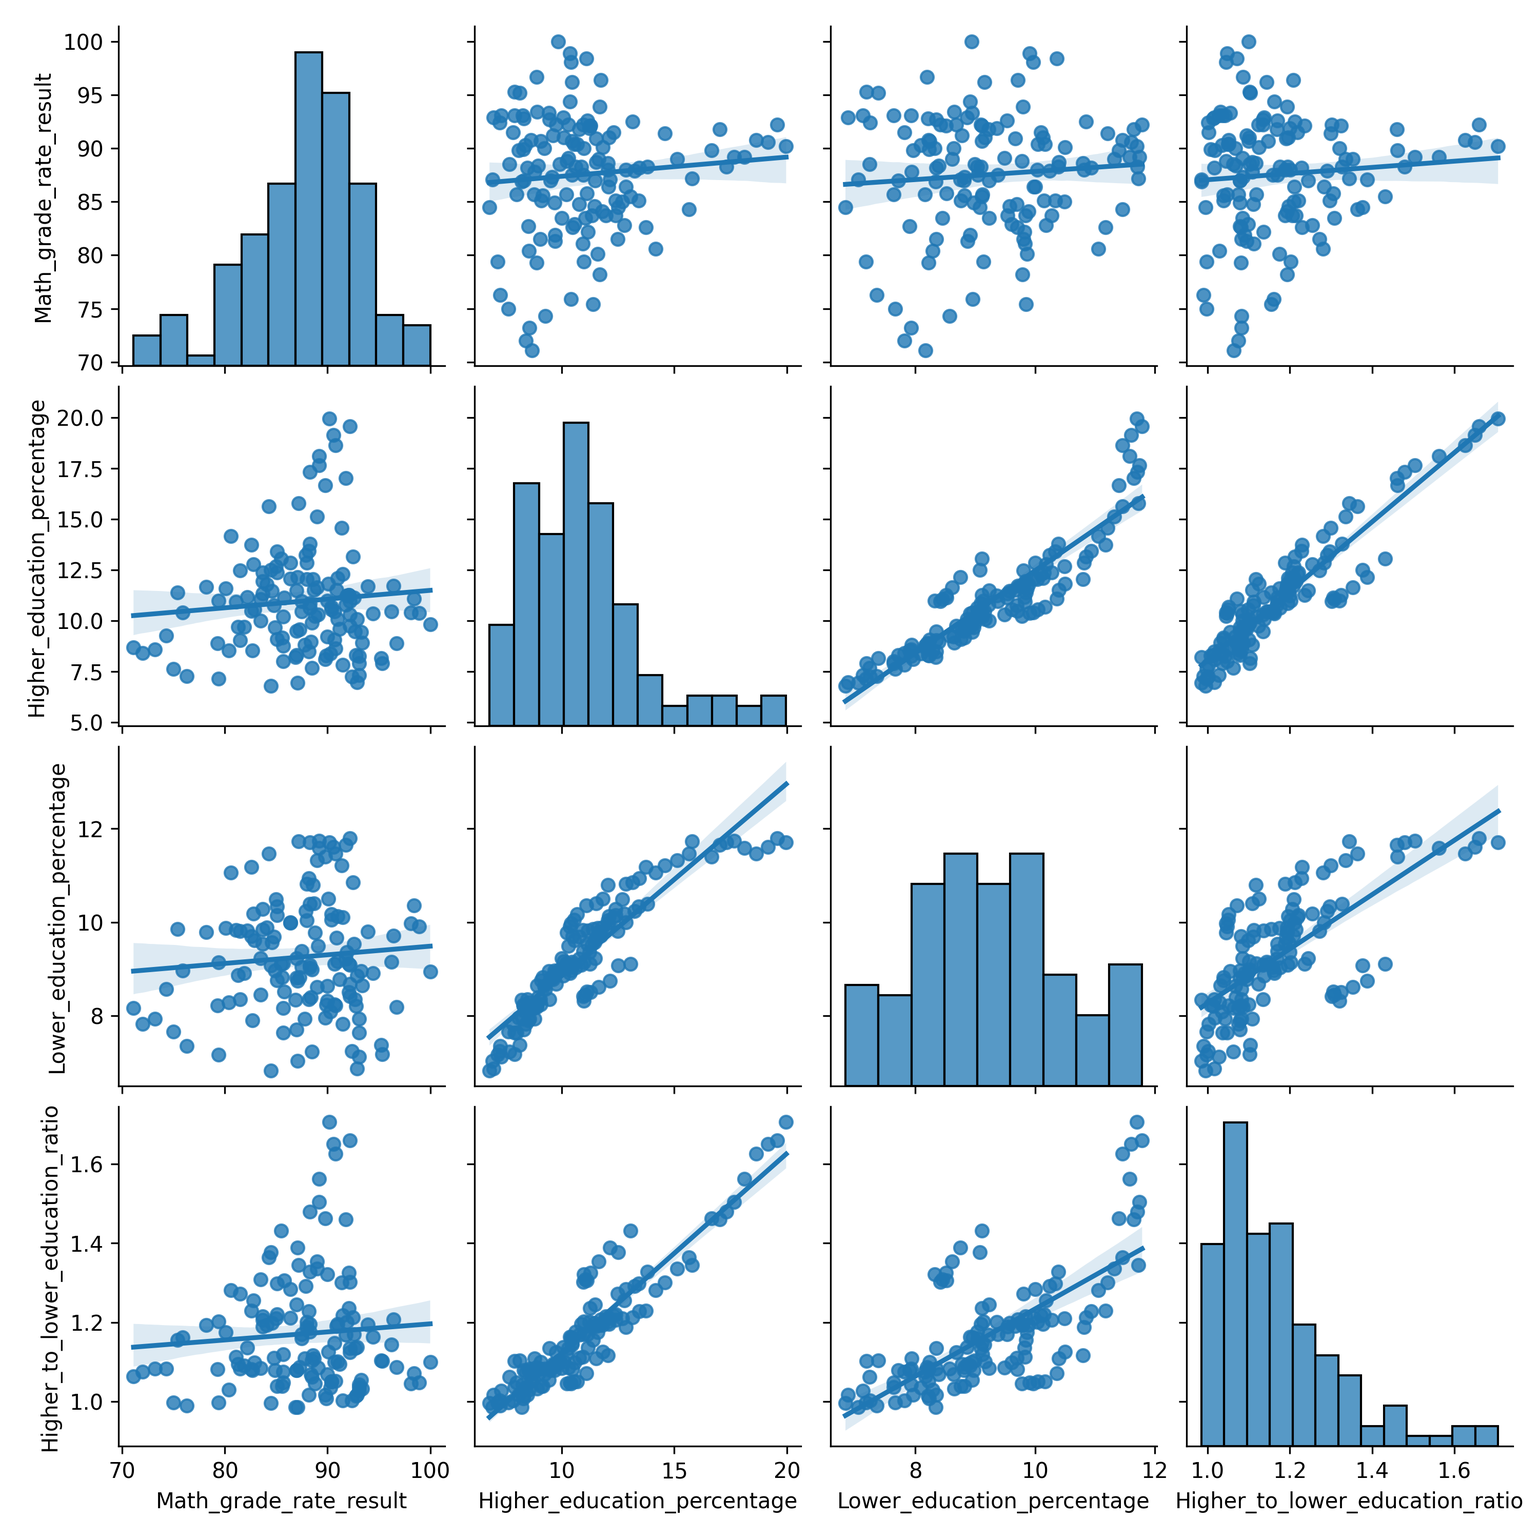
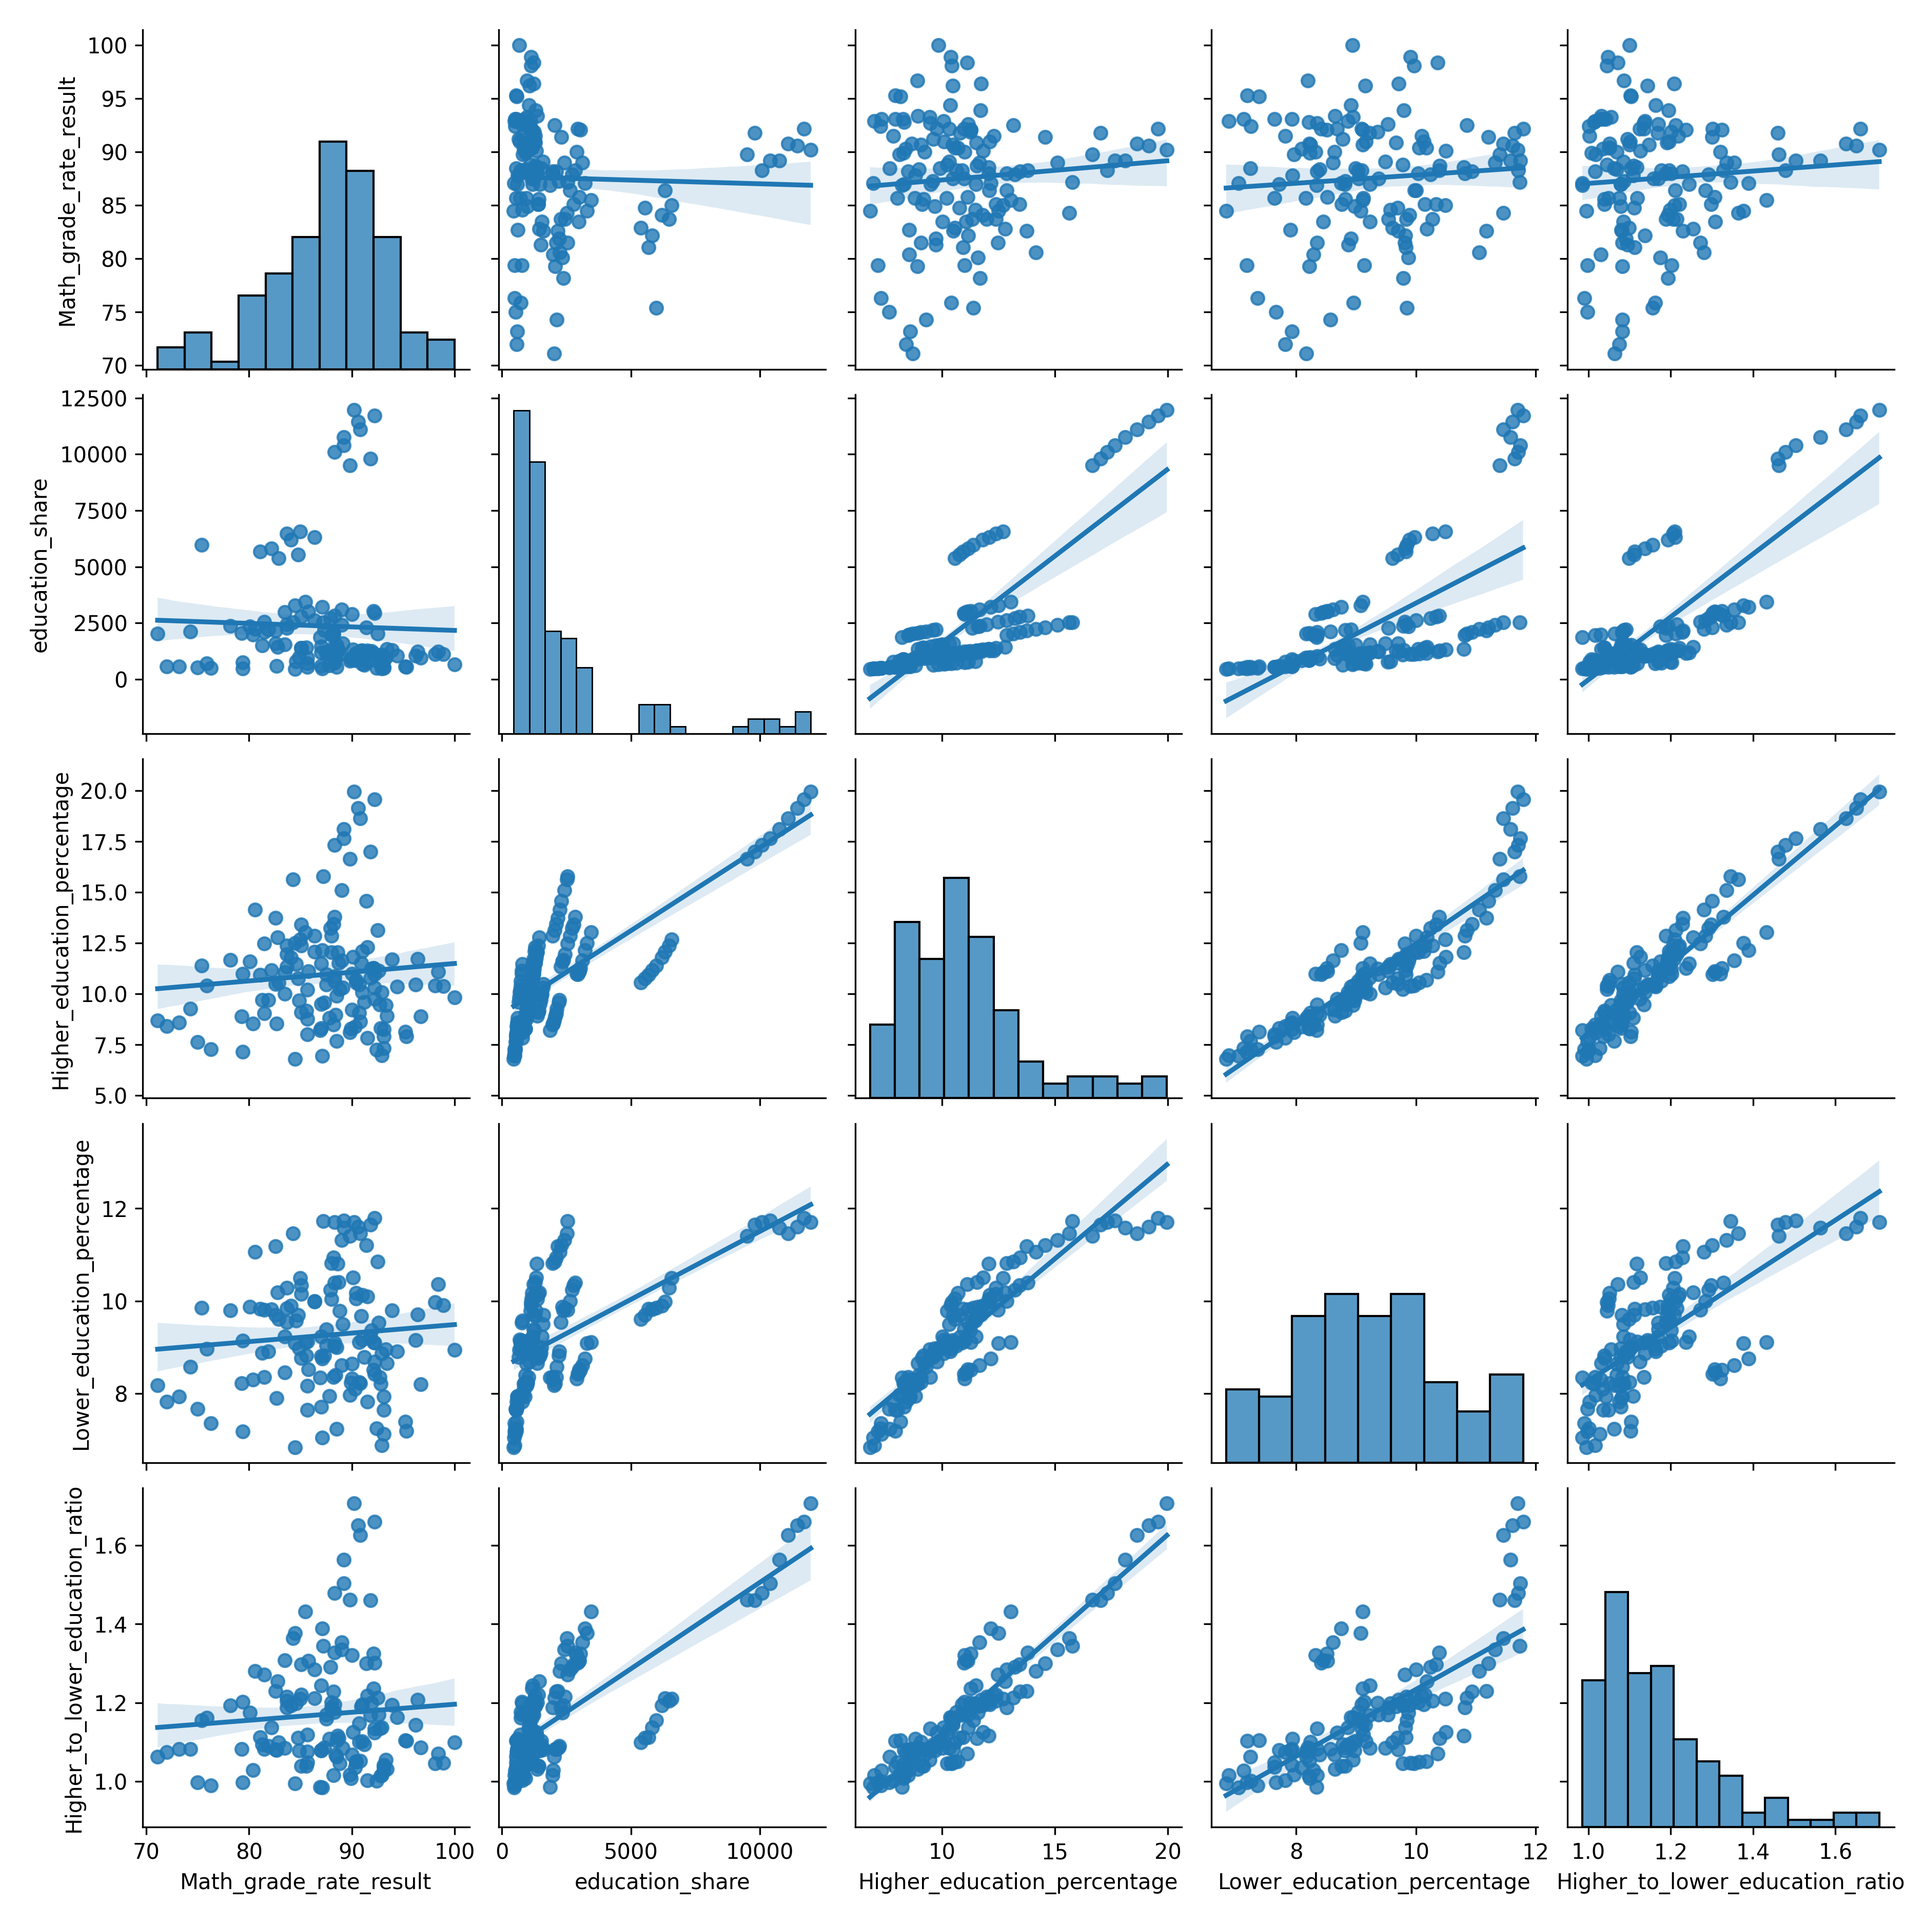
add new model

Changed region(s): [[0.0, 0.0, 0.992, 0.992], [0.527, 0.372, 0.558, 0.403], [0.434, 0.217, 0.465, 0.248]]

diff --git a/main.py b/main.py
@@ -35,21 +35,6 @@ def Merge_data(folder_path,file_name):
     write_df_to_csv(data,folder_path, file_name,encoding='utf-8-sig')
     
     return data
-def check_data_VIF(df):
-    X = df.drop('Math_grade_rate_result', axis=1)
-  
-    X = X.select_dtypes(include=['int64', 'float64', 'bool'])
-    X = sm.add_constant(X)
-
-    print(X.dtypes) 
-    print(X.head())  
-
-    vif_data = pd.DataFrame()
-    vif_data["feature"] = X.columns
-    vif_data["VIF"] = [variance_inflation_factor(X.values, i) for i in range(X.shape[1])]
-
-    print(vif_data)
-
 
 def show_correlation_matrix(df, image_path):
     plt.figure(figsize=(10, 8))
@@ -59,35 +44,39 @@ def show_correlation_matrix(df, image_path):
     plt.tight_layout()
     plt.savefig(image_path, dpi=300)
     plt.close()
-
-def math_grade_rate_plot(df):
-    graph = seaborn.FacetGrid(df, col="Municipality", hue="Municipality", col_wrap=2, height=4, aspect=1.5)
-    graph.map(seaborn.lineplot, "Year", "Math_grade_rate_result", marker="o")
-    plt.savefig("data/math_grade_rate_result.png", dpi=300)
-    plt.close()
-
 def show_correlation_pair_plot(df, image_path):
     seaborn.pairplot(df, kind='reg')
     plt.suptitle("Pairwise Relationships with Regression Diagnostics", y=1.02)
     plt.savefig(image_path, dpi=300)
     plt.close()
     
+def math_grade_rate_plot(df):
+    graph = seaborn.FacetGrid(df, col="Municipality", hue="Municipality", col_wrap=2, height=4, aspect=1.5)
+    graph.map(seaborn.lineplot, "Year", "Math_grade_rate_result", marker="o")
+    plt.savefig("data/math_grade_rate_result.png", dpi=300)
+    plt.close()
     
 def drop_highly_correlated_features(df, threshold=0.7):
-    corr = df.corr().round(2).abs()
-    dropped = set()
-    for i in corr.columns:
-        for j in corr.columns:
-            if(len(dropped)>len(corr.columns)-3):
-                break
-            if i!="Math_grade_rate_result" and j!="Math_grade_rate_result" and  i != j and corr.loc[i, j] > threshold:
-                dropped.add(j)
-    return df.drop(columns=dropped), list(dropped)
+    corr_matrix = df.corr().abs()
+    to_drop = set()
+    for row_ind in range(len(corr_matrix.columns)):
+        row = corr_matrix.columns[row_ind]
+        for col_ind in range(row_ind + 1, len(corr_matrix.columns)):
+            col = corr_matrix.columns[col_ind]
+            if corr_matrix.loc[row, col] > threshold:
+                if row != "Math_grade_rate_result" and col != "Math_grade_rate_result":
+                    if col not in to_drop:
+                        to_drop.add(col)
+
+    kept = [col for col in df.columns if col not in to_drop]
+    return kept, list(to_drop)
+
+
 
 def features_correlation_checking(df):
     income_vars = ["Math_grade_rate_result", "Average_income", "Income_inequality"]
     pop_vars = ["Math_grade_rate_result","Population_growth_rate", "Population"]
-    edu_vars = ["Math_grade_rate_result", "Higher_education_percentage", "Lower_education_percentage", "Higher_to_lower_education_ratio"]
+    edu_vars = ["Math_grade_rate_result", "education_share","Higher_education_percentage", "Lower_education_percentage", "Higher_to_lower_education_ratio"]
 
     show_correlation_matrix(df[income_vars], "data/correlation_matrix_income.png")
     show_correlation_pair_plot(df[income_vars], "data/correlation_plot_income.png")
@@ -104,13 +93,38 @@ def features_correlation_checking(df):
     selected_features=[col for col in  df.columns if col not in income_dropped and col not in pop_dropped and col not in edu_dropped ]
     return selected_features
 
+def check_data_VIF(df):
+    X = df.dropna()
+    X = df.select_dtypes(include=[np.number]).astype(float)
+
+    if 'Math_grade_rate_result' in X.columns:
+        X = X.drop(columns=['Math_grade_rate_result'])
+
+    X = sm.add_constant(X)
+
+    vif_data = pd.DataFrame()
+    vif_data["feature"] = X.columns
+    vif_data["VIF"] = [variance_inflation_factor(X.values, i) for i in range(X.shape[1])]
+
+    print(vif_data)
+
+    
 def main():
     df=Merge_data('data/','merged_data.csv')
     math_grade_rate_plot(df)
     selected_features=features_correlation_checking(df)
     not_correlated_df=df[selected_features]
-    dummy_df= pd.get_dummies(not_correlated_df, columns=['Municipality','Year'], drop_first=True)
-    #check_data_VIF(dummy_df) 
+    print(selected_features)
+    res=not_correlated_df.describe()
+    print(res)
+    
+    
+    show_correlation_matrix(df[[col for col in df.columns if col not in ['Year', 'Municipality']]], "data/correlation_matrix.png")
+    show_correlation_pair_plot(df, "data/correlation_plot.png")
+    
+    # dummy_df= pd.get_dummies(not_correlated_df, columns=['Municipality','Year'], drop_first=True)
+    # dummy_df = dummy_df.astype(int)
+    # check_data_VIF(dummy_df) 
 
 
 main()

diff --git a/feature_engineering/education_level/EducationFeatures.py b/feature_engineering/education_level/EducationFeatures.py
@@ -9,6 +9,7 @@ class EducationFeatures:
         self.__lower_education_percentage = self.__calculate_lower_education_percentage()
         self.__higher_education_percentage = self.__calculate_higher_education_percentage()
         self.__higher_to_lower_education_ratio=self.__calculate_higher_to_lower_education_ratio()
+        self.__education_share=self.__calculate_education_share(total_population)
         
     def __calculate_lower_education_percentage(self):
         if self.__total_population == 0:
@@ -24,6 +25,9 @@ class EducationFeatures:
         if self.__lower_education_count == 0:
             return np.nan
         return round(self.__higher_education_count / self.__lower_education_count,4)
+    
+    def __calculate_education_share(self,total_population):
+        return round(self.__higher_education_count+ self.__lower_education_count/total_population ,2)
     def get_lower_education_count(self):
         return self.__lower_education_count
     
@@ -46,11 +50,15 @@ class EducationFeatures:
         return self.__year  
     def get_municipality(self):
         return self.__municipality  
+    
+    def get_education_share(self):
+        return self.__education_share
     def to_dict(self):
         return {
             "Year":self.__year,
             "Municipality":self.__municipality,
             "Lower_education_percentage":self.__lower_education_percentage,
             "Higher_education_percentage":self.__higher_education_percentage,
-            "Higher_to_lower_education_ratio":self.__higher_to_lower_education_ratio
+            "Higher_to_lower_education_ratio":self.__higher_to_lower_education_ratio,
+            "education_share":self.__education_share
         }

diff --git a/feature_engineering/politic/PoliticDataLoader.py b/feature_engineering/politic/PoliticDataLoader.py
@@ -35,7 +35,7 @@ class PoliticDataLoader(DataLoader):
         # Extract party columns by excluding known columns
         # remove Other Parties column for removing Correlation between parties because increasing one party will decrease the other parties
         # and this will cause the correlation between them invalid regression Model
-        known_cols = {'Code', 'Municipality', 'Election Year','Other Parties'}
+        known_cols = {'Code', 'Municipality', 'Election Year'}
         party_columns = [col for col in data.columns if col not in known_cols]
 
         political_party_features_list = []
